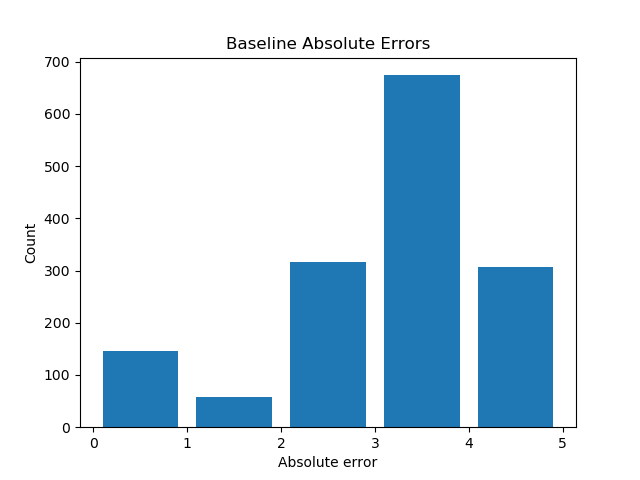
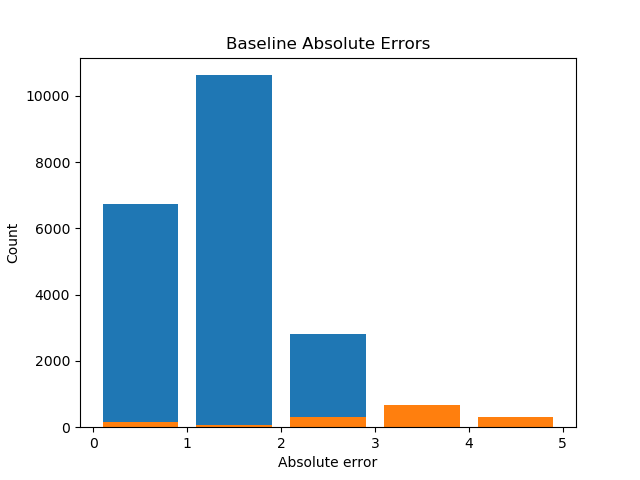
Integrated improved into base with instructions

diff --git a/base.py b/base.py
@@ -1,4 +1,11 @@
-# 2, n
+# validate
+## y, n
+# jarye
+## n, n
+# task2
+## 2, n, y
+# task2 (improved)
+## 2, n, y, n
 
 import numpy as np
 from matplotlib import pyplot as plt 
@@ -7,6 +14,7 @@ from math import sqrt
 
 from yaspin import yaspin
 import pickle
+import itertools
 
 # BASE
 ## validate
@@ -24,6 +32,13 @@ assert validate in ['y','n','2']
 
 rerun_bias = input("Rerun bias? (y/n) ") or 'n'
 assert rerun_bias in ['y','n']
+
+if validate == '2':
+    run_improved = input("Run improved? (y/n) ") or 'n'
+    assert run_improved in ['y','n']
+
+    rerun_distance_matrix = input("Rerun distance_matrix? (y/n) ") or 'n'
+    assert rerun_distance_matrix in ['y','n']
 
 if validate == 'y':
     training_filename = "validate_code_netflix/validate_code.training"
@@ -155,3 +170,203 @@ else:
     plt.savefig("BASE-jarye.png")
 error_dist = [x for x in hist if x > 0]
 print(f"{error_dist=}")
+
+# =========================================================================
+
+if run_improved == 'y' and validate == '2':
+
+    U_MIN = 100
+    NEIGHBOURS_NUMBER_LIST = [100] # min 1000
+    PROPORTION_OF_PREDICT_VS_SIM_LIST = [(1,0.5)]
+
+    # fill with special values
+    NONE = np.nan
+    difference_matrix = np.full((max_user, max_user), NONE)
+    # calculate the difference for each cell
+    for user in range(max_user):
+        for movie in range(max_movie):
+            # if user rated the movie, calculate the difference between actual and predicted grade
+            if training_matrix[user, movie] != 0.0:
+                difference_matrix[user, movie] = (
+                    training_matrix[user, movie] - training_matrix_predicted[user, movie]
+                )
+
+    #  ---
+
+    # self.distance_matrix = self.calculate_distance_matrix()
+
+    # def calculate_distance_matrix(self):
+    #     # fill with zeroes
+    #     distance_matrix = np.zeros((self.movies, self.movies))
+    #     for movie in range(self.movies):
+    #         distance_matrix[movie, movie] = 0.0
+    #         # iterate over top triangle of the matrix
+    #         for candidate in range(movie + 1, self.movies):
+    #             movie_a = []
+    #             movie_b = []
+    #             for user in range(self.users):
+    #                 # append movies if user rated both of them
+    #                 if (
+    #                     self.difference_matrix[user, movie] != NONE
+    #                     and self.difference_matrix[user, candidate] != NONE
+    #                 ):
+    #                     movie_a.append(self.difference_matrix[user, movie])
+    #                     movie_b.append(self.difference_matrix[user, candidate])
+    #             # calculate cosine coefficient distance or 0
+    #             distance_matrix[movie, candidate] = (
+    #                 1.0 - distance.cosine(movie_a, movie_b)
+    #                 if len(movie_a) * len(movie_b) > 0
+    #                 else 0.0
+    #             )
+    #             # get bottom triangle by symmetry
+    #             distance_matrix[candidate, movie] = distance_matrix[movie, candidate]
+    #     return distance_matrix
+
+    if rerun_distance_matrix == 'y':
+        distance_matrix = np.zeros((max_movie, max_movie))
+        for movie in range(max_movie):
+            print('Creating distance_matrix for {movie}/{max_movie}...'.format(
+                movie=movie+1, max_movie=max_movie
+            ))
+            distance_matrix[movie, movie] = 0.0
+            # iterate over top triangle of the matrix
+            for candidate in range(movie + 1, max_movie):
+                movie_a = []
+                movie_b = []
+                for user in range(max_user):
+                    # append movies if user rated both of them
+                    if (
+                        difference_matrix[user, movie] != NONE
+                        and difference_matrix[user, candidate] != NONE
+                    ):
+                        movie_a.append(difference_matrix[user, movie])
+                        movie_b.append(difference_matrix[user, candidate])
+                # calculate cosine coefficient distance or 0
+                distance_matrix[movie, candidate] = (
+                    # 1.0 - distance.cosine(movie_a, movie_b)
+                    distance.cosine(movie_a, movie_b)
+                    if len(movie_a) > U_MIN
+                    else 0.0
+                )
+                # get bottom triangle by symmetry
+                distance_matrix[candidate, movie] = distance_matrix[movie, candidate]
+        pickle.dump(distance_matrix, open("task2-distance_matrix-U_MIN-{U_MIN}.p".format(U_MIN=str(U_MIN)), "wb"))
+    else:
+        distance_matrix = pickle.load(open("task2-distance_matrix-U_MIN-{U_MIN}.p".format(U_MIN=str(U_MIN)), "rb"))
+
+    #  ---
+
+    # self.improved_matrix = self.get_improved_matrix(training_data)
+
+    # def get_improved_matrix(self, training_data):
+    #     improved_matrix = np.zeros((self.users, self.movies))
+    #     sim = 0.0
+    #     for movie in range(self.movies):
+    #         # choose 2 closest neighbours, based on distance matrix
+    #         neighbours = self.find_best_neighbours(movie, NEIGHBOURS_NUMBER)
+    #         for user in range(self.users):
+    #             similarity = self.get_similarity(training_data, user, movie, neighbours)
+    #             temp_val = self.baseline_matrix[user, movie] + similarity / 10.0
+    #             sim += similarity
+    #             # crop values
+    #             if temp_val < 1.0:
+    #                 temp_val = 1.0
+    #             elif temp_val > 5.0:
+    #                 temp_val = 5.0
+    #             improved_matrix[user, movie] = temp_val
+    #     return improved_matrix
+
+    def find_best_neighbours(movie, n):
+        # returns indices of 2 closes neighbours
+        return np.argsort([abs(x) for x in distance_matrix[movie]])[::-1][:n]
+
+    def get_similarity(training_data, user, movie, neighbours):
+        sim_denominator = 0.0
+        sim_numerator = 0.0
+        for neighbour in neighbours:
+            if training_data[user, neighbour] != 0:
+                sim_numerator += (
+                    distance_matrix[movie, neighbour]
+                    * difference_matrix[user, neighbour]
+                )
+                sim_denominator += abs(distance_matrix[movie, neighbour])
+        if sim_denominator != 0:
+            return sim_numerator * 1.0 / sim_denominator
+        elif user < U_MIN * sum(PROPORTION_OF_PREDICT_VS_SIM_LIST[0]):
+            return np.nan
+        else:
+            return 0.0
+            # return np.nan # TODO potential
+
+    def trial_and_error(NEIGHBOURS_NUMBER, PROPORTION_OF_PREDICT, PROPORTION_OF_SIM):
+        # NEIGHBOURS_NUMBER = 10
+        # SIM_DENOM = 1 # 10.0
+        # improved_matrix = np.zeros((max_user, max_movie))
+        improved_matrix = np.full([max_user, max_movie], np.nan) # TODO
+        sim_data = []
+        for movie in range(max_movie):
+            
+            print('Finding similarity for {movie}/{max_movie}...'.format(
+                movie=movie+1, max_movie=max_movie
+            ))
+            # sim = 0.0
+            # choose 2 closest neighbours, based on distance matrix
+            neighbours = find_best_neighbours(movie, NEIGHBOURS_NUMBER)
+            for user in range(max_user):
+                similarity = get_similarity(training_matrix, user, movie, neighbours)
+                # temp_val = training_matrix_predicted[user, movie] + similarity / 10.0
+                # temp_val = PROPORTION_OF_PREDICT * training_matrix_predicted[user, movie] + PROPORTION_OF_SIM * similarity
+                temp_val = training_matrix_predicted[user, movie] + similarity
+                # sim += similarity
+                # crop values
+                if temp_val < 1.0:
+                    temp_val = 1.0
+                elif temp_val > 5.0:
+                    temp_val = 5.0
+                sim_data.append(similarity)
+                improved_matrix[user, movie] = temp_val if user > U_MIN else np.nan # TODO
+
+        #  ---
+
+        # self.rmse_test_improved = self.get_rmse_test(test_data, self.improved_matrix)
+
+        rmse_test_improved = 0
+        histogram_data = []
+        # u_indexes, m_indexes = np.nonzero(test_matrix)
+        u_indexes, m_indexes = range(max_user), range(max_movie) # TODO potential - loop through full array, not just nonzero
+        for u_index, m_index in zip(u_indexes, m_indexes):
+            r_um_predicted = improved_matrix[u_index, m_index]
+            r_um = test_matrix[u_index, m_index]
+            # abs_error = abs(r_um - int(r_um_predicted)) * PROPORTION_OF_PREDICT if not np.isnan(r_um_predicted) else 0
+            # abs_error = abs(r_um - r_um_predicted) if not np.isnan(r_um_predicted) else 0 # TODO
+            abs_error = abs(r_um - r_um_predicted) if not np.isnan(r_um_predicted) else 0 # TODO
+            histogram_data.append(abs_error)
+            rmse_test_improved += abs_error ** 2 if not np.isnan(r_um_predicted) else 0 # TODO
+        rmse_test_improved = sqrt(rmse_test_improved / test_size)
+        rmse_test_improved = round(rmse_test_improved,3)
+        print(f"{rmse_test_improved=}")
+
+        #  ---
+
+        # plt.figure(1)
+        # _ = plt.hist(sim_data, bins=100)
+        # plt.show()
+        # # plt.close()
+
+        # ---
+        hist, bins = np.histogram(histogram_data, bins=[0,1,2,3,4,5])
+        plt.figure(1)
+        plt.bar([0.5, 1.5, 2.5, 3.5, 4.5], hist)
+        plt.title("Baseline Absolute Errors")
+        plt.xlabel("Absolute error")
+        plt.ylabel("Count")
+        plt.savefig("task2-improved_abs_error.png")
+        plt.close()
+        error_dist_improved = [x for x in hist if x > 0]
+        print(f"{error_dist_improved=}")    
+
+    # for a,b in itertools.product(a, b):
+    for NEIGHBOURS_NUMBER, PROPORTION_OF_PREDICT_VS_SIM in itertools.product(NEIGHBOURS_NUMBER_LIST, PROPORTION_OF_PREDICT_VS_SIM_LIST):
+        PROPORTION_OF_PREDICT, PROPORTION_OF_SIM = PROPORTION_OF_PREDICT_VS_SIM
+        print(f"{U_MIN=}; {NEIGHBOURS_NUMBER=}; {PROPORTION_OF_PREDICT_VS_SIM=}; ", end="")
+        trial_and_error(NEIGHBOURS_NUMBER, PROPORTION_OF_PREDICT, PROPORTION_OF_SIM)
